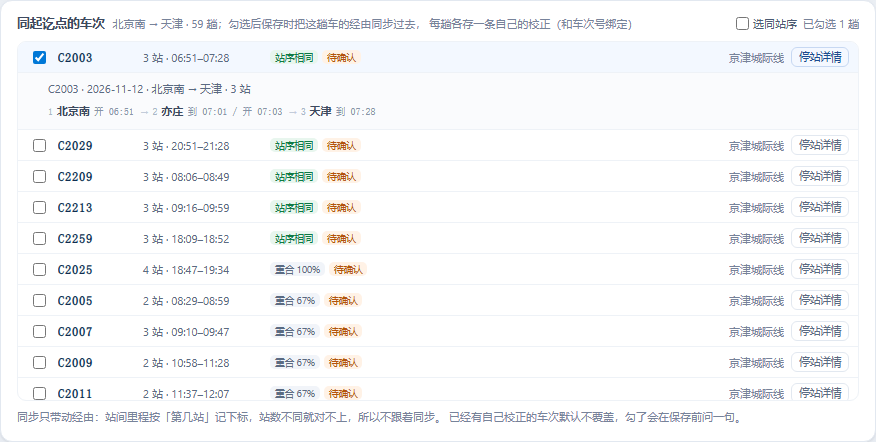
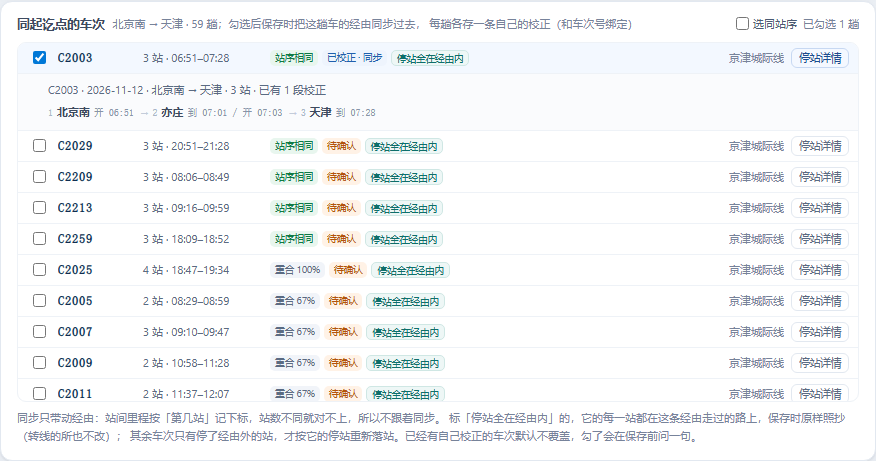
同步经由：停站全在经由里就原样照抄，不再重新落站
- 新增 via_covers_stops()：把每条经由段在那条线的站序（命名线路 → 合并线路所 →
  资料库站序）取 from→to 之间的一截，合起来就是这条经由走过的全部站。对方的每一站
  都在里面就返回 True
- sync_via()：True → mode=direct，把来源的经由原样存过去，区间端点、转线的所
  （春申南所、灭火沟线路所）一个不动，不落站、不重算；False/None 才走
  adapt_via_to_stops() 那条老路（mode=adapt）
- 同起讫点列表每行多一个 viaFits（停站全在经由内），界面挂青标「停站全在经由内」，
  勾之前就知道会照抄还是重新落站；保存提示也分开报「照抄 N 趟 / 重新落站 M 趟」
- 回归：新增 check_rule() 守覆盖判定（线上站 True / 线外站 False / 线名查不到 None）、
  接口断言 mode 与存储结果（direct 时必须和来源逐段一致）、UI 标记数与接口一致
- README / PROJECT-CONTEXT 规则 4 改写；docs/curate-od.png 重新生成
  17 个回归全绿

diff --git a/webapp/static/app.js b/webapp/static/app.js
@@ -4600,6 +4600,10 @@ function odRowHtml(it) {
   } else if (it.viaSource === 'auto') {
     tags.push('<span class="mate-tag pending">待确认</span>');
   }
+  if (it.viaFits) {
+    tags.push('<span class="mate-tag fits" title="它的每一站都在这条经由走过的路上：'
+      + '勾选同步会原样照抄，不重新落站">停站全在经由内</span>');
+  }
   const time = it.startTime ? `${esc(it.startTime)}–${esc(it.endTime || '')}` : '';
   return `<div class="mate-row${on ? ' on' : ''}" data-code="${esc(it.code)}">
     <label class="mate-chk"><input type="checkbox"${on ? ' checked' : ''}></label>
@@ -4627,7 +4631,8 @@ function cuMatesHtml(d) {
     </h4>
     <div class="mate-list" id="ceMates">${items.map(odRowHtml).join('')}</div>
     <div class="ve-note">同步只带动经由：站间里程按「第几站」记下标，站数不同就对不上，所以不跟着同步。
-      已经有自己校正的车次默认不覆盖，勾了会在保存前问一句。</div>
+      标「停站全在经由内」的，它的每一站都在这条经由走过的路上，保存时原样照抄（转线的所也不改）；
+      其余车次只有停了经由外的站，才按它的停站重新落站。已经有自己校正的车次默认不覆盖，勾了会在保存前问一句。</div>
   </div>`;
 }
 
@@ -5992,7 +5997,13 @@ async function cuSave() {
     if (virtCount) parts.push(`${virtCount} 段自动推断没确认，未保存`);
     const synced = (r && r.synced) || [];
     const okc = synced.filter(x => x.ok);
-    if (okc.length) parts.push(`已同步到 ${okc.length} 趟（${okc.map(x => x.code).join('、')}）`);
+    if (okc.length) {
+      const dir = okc.filter(x => x.mode === 'direct').length;
+      const ad = okc.length - dir;
+      parts.push(`已同步到 ${okc.length} 趟（${okc.map(x => x.code).join('、')}）`
+        + (dir ? `，${dir} 趟停站全在经由内、原样照抄` : '')
+        + (ad ? `，${ad} 趟停了经由外的站、按它的停站重新落站` : ''));
+    }
     const bad = synced.filter(x => !x.ok);
     cuMsg(bad.length ? 'bad' : 'ok', '已保存 · ' + parts.join('；')
       + (bad.length ? `；这几趟没同步：${bad.map(x => `${x.code}（${x.reason}）`).join('、')}` : ''));

diff --git a/webapp/static/style.css b/webapp/static/style.css
@@ -637,6 +637,7 @@ button.vseg:not(.picked):hover::after{opacity:1}
 .mate-tag.same{background:#e8f6ee;color:#0f7a45}
 .mate-tag.manual{background:#eef4fd;color:#1f5fae}
 .mate-tag.pending{background:#fff2e6;color:#b45309}
+.mate-tag.fits{background:#eef7f6;color:#0d6f6a;border:1px solid #cfe7e4}
 .mate-via{font-size:11px;color:var(--muted);white-space:nowrap;overflow:hidden;text-overflow:ellipsis;
   text-align:right}
 .mate-more{border:1px solid var(--line);background:#fff;color:#5a6b83;border-radius:6px;

diff --git a/scripts/test_curate_sync.py b/scripts/test_curate_sync.py
@@ -7,7 +7,8 @@
   2. 校正和车次号绑定，并记下「依据哪一天的站表」；站表变了要能提示
   3. 「同类沿用」已经取消：同起讫点的车次不会再自动套用别人的经由
   4. 只能人工勾选同步；同步过去的每趟各存一条自己的校正（source=sync）
-  5. 同步时区间按对方的停站重新落站（对方少停的站并进相邻段）
+  5. 对方的每一站都在这条经由走过的路上 → 原样照抄（mode=direct，不重新落站）；
+     只有它停了经由之外的站，才按它的停站重新落站（mode=adapt）
 
 自带清理：测试用到的校正跑完全部撤销。
 用法：python scripts/test_curate_sync.py [来源车次 目标车次]
@@ -87,6 +88,10 @@ def check_api(src, dst):
     assert dst != src, "来源和目标是同一趟"
     print(f"  同步目标：{dst}")
 
+    # 0) 同起讫点列表里先标出来「哪几趟停站全在经由里」（勾选后原样照抄）
+    print("  列表标记 viaFits：" + "、".join(
+        f"{m['code']}={m.get('viaFits')}" for m in mates[:6]))
+
     # 1) 自动结果还没入库：payload 里是 auto、viaConfirmed=False
     p = get(f"/api/route?code={src}&date={d['date']}")
     assert p["viaSource"] == "auto" and p["viaConfirmed"] is False, "自动结果不该算已校正"
@@ -119,7 +124,19 @@ def check_api(src, dst):
     segs = [(s["line"], s["from"], s["to"]) for s in pm["viaSegs"]]
     print(f"  {dst} 入库：source={ov['source']} 依据 {ov.get('basedDate')} · {segs}")
 
-    # 4) 区间按对方的停站落站：首末段必须正好是它的首末站
+    # 4) 它的每一站都在这条经由走过的路上 → 原样照抄（不重新落站）；否则才重新落站
+    import railcore as _rc                              # noqa: E402  （已在 find_pair 里塞好路径）
+    tgt_stops = _rc.route_stops_brief(dst).get("stops") or []
+    expect = _rc.via_covers_stops(r.get("via") or [], tgt_stops)
+    mode = synced[0].get("mode")
+    print(f"  覆盖判定 {expect} → 落站方式 {mode}")
+    if expect:
+        assert mode == "direct", f"停站全在经由里，却重新落站了：{mode}"
+        src_via = [(x["line"], x["from"], x["to"]) for x in r["via"]]
+        assert segs == src_via, f"原样照抄的经由被改了：{segs} ≠ {src_via}"
+    else:
+        assert mode == "adapt", f"有站不在经由里，却原样照抄了：{mode}"
+    # 首末段无论如何都要正好是它的首末站
     assert segs[0][1] == m["from"] and segs[-1][2] == m["to"], "同步后的区间没覆盖对方全程"
     assert len(m["stops"]) == len(pm["stops"]), "停站数被改了"
 
@@ -183,7 +200,6 @@ def check_ui(src, dst):
         print(f"  停站详情 {nst} 行")
         assert nst >= 2, "停站详情没内容"
         pg.screenshot(path=os.path.join(SHOT, "cu-sync.png"))
-        pg.query_selector("#ceMatesCard").screenshot(path=os.path.join(DOC, "curate-od.png"))
 
         # 确认自动结果并入库（此时已勾选同伴，会一起同步）
         accept = pg.query_selector("#ceAccept")
@@ -195,6 +211,21 @@ def check_ui(src, dst):
         msg = pg.inner_text("#ceMsg")
         print("  保存提示：" + msg.replace("\n", " ")[:120])
         assert "已同步到" in msg, "保存提示里没说同步了几趟"
+        assert "原样照抄" in msg or "重新落站" in msg, "保存提示没说这次是照抄还是重新落站"
+
+        # 保存后来源车有了经由：列表里该标出哪几趟「停站全在经由内」
+        pg.wait_for_timeout(800)
+        fits = pg.eval_on_selector_all("#ceMates .mate-row .mate-tag.fits", "els => els.length")
+        want = sum(1 for x in (get("/api/curate/detail?code=" + src)["odMates"]["items"])
+                   if x.get("viaFits"))
+        print(f"  标「停站全在经由内」的行 {fits} 个（接口 {want} 个）")
+        assert fits == want, "「停站全在经由内」标记和接口对不上"
+
+        # 文档截图：此时列表已标出「停站全在经由内」，再展开一趟的停站详情
+        pg.query_selector('#ceMates .mate-row[data-code="%s"] input[type=checkbox]' % dst).check()
+        pg.query_selector('#ceMates .mate-row[data-code="%s"] .mate-more' % dst).click()
+        pg.wait_for_timeout(900)
+        pg.query_selector("#ceMatesCard").screenshot(path=os.path.join(DOC, "curate-od.png"))
 
         # 同步入库的算「已校正」：统计条是「已校正 / 其中同步」，行上标「已校正 · 同步」
         pg.click('#cuFilters .cu-filter[data-f="synced"]')
@@ -249,6 +280,25 @@ def check_stale():
         clear(code)
 
 
+def check_rule():
+    """「停站全在经由里就原样照抄」这条判定本身（纯函数，不碰库）"""
+    print("== 覆盖判定")
+    sys.path.insert(0, os.path.join(os.path.dirname(os.path.dirname(
+        os.path.abspath(__file__))), "webapp"))
+    import railcore                                    # noqa: E402
+
+    segs = [{"line": "京沪线", "from": "北京", "to": "上海"}]
+    on = [{"name": "北京"}, {"name": "天津西"}, {"name": "徐州"}, {"name": "上海"}]
+    off = [{"name": "北京"}, {"name": "大连"}, {"name": "上海"}]
+    unknown = [{"line": "查不到的线", "from": "甲", "to": "乙"}]
+    print("  京沪线上走天津西/徐州 →", railcore.via_covers_stops(segs, on),
+          "｜停了线外的大连 →", railcore.via_covers_stops(segs, off),
+          "｜线名查不到 →", railcore.via_covers_stops(unknown, on))
+    assert railcore.via_covers_stops(segs, on) is True, "全在线上的停站没认出来"
+    assert railcore.via_covers_stops(segs, off) is False, "线外的停站没被拦下"
+    assert railcore.via_covers_stops(unknown, on) is None, "线名查不到时应返回 None（退回重新落站）"
+
+
 def main():
     if SRC:
         src, dst = SRC, DST
@@ -258,6 +308,7 @@ def main():
         src, dst, f, t = picked
         print(f"样本：{src} / {dst}（{f} → {t}）")
     try:
+        check_rule()
         dst = check_api(src, dst)
         check_stale()
         # 前面 API 已经写过校正，跑 UI 前先清掉，让页面回到「自动待确认」状态

diff --git a/webapp/railcore.py b/webapp/railcore.py
@@ -665,6 +665,64 @@ def adapt_via_to_stops(segs: List[dict], stops: List[dict]) -> List[dict]:
     return out
 
 
+def _line_span_names(line: str, cache: Dict[str, Optional[List[str]]]) -> Optional[List[str]]:
+    """某条线的完整站序（含线路所这类节点）。线路库、资料库都查不到 → None"""
+    key = cnrail._key(line or "")
+    if key in cache:
+        return cache[key]
+    names: Optional[List[str]] = None
+    try:
+        names = cnrail.line_station_names(line)
+        if names:
+            names = merge_catalog_nodes(line, names)
+        else:
+            names = catalog_stop_names(line) or None
+    except Exception:                                # noqa: BLE001
+        names = None
+    cache[key] = names
+    return names
+
+
+def _span_slice(names: List[str], a: str, b: str) -> Optional[List[str]]:
+    """站序里 a→b 之间（含两端）的站名；有一端对不上就是 None"""
+    keys = [cnrail._key(n) for n in names]
+    ka, kb = cnrail._key(a or ""), cnrail._key(b or "")
+    if ka not in keys or kb not in keys:
+        return None
+    i, j = keys.index(ka), keys.index(kb)
+    if i > j:
+        i, j = j, i
+    return names[i:j + 1]
+
+
+def via_covers_stops(segs: List[dict], stops: List[dict],
+                     cache: Optional[Dict[str, Optional[List[str]]]] = None) -> Optional[bool]:
+    """
+    这条经由是不是已经把 stops 里的每一站都走过了？
+
+    True  → 原样照抄就是对的：转线的所、区间端点都不用改，不必重新落站；
+    False → 目标车停了经由之外的站，得按它的停站重新落站；
+    None  → 线路站序查不到，判断不了，走重新落站那条路（老办法）。
+
+    `cache` 是「线路名 → 站序」的记忆表：一次列几十趟同起讫点车次时传一个进来，
+    别每趟都把线路站序重新读一遍。
+    """
+    n = len(stops or [])
+    if n < 2 or not segs:
+        return None
+    cache = {} if cache is None else cache
+    seen: set = set()
+    for s in segs:
+        names = _line_span_names(str(s.get("line") or ""), cache)
+        if not names:
+            return None
+        part = _span_slice(names, s.get("from") or "", s.get("to") or "")
+        if part is None:
+            return None
+        seen.update(cnrail._key(x) for x in part)
+    return all(cnrail._key(s.get("name") or "") in seen for s in stops)
+
+
 # ---------------------------------------------------------------------------
 # 同起讫点车次：列停站明细、按勾选同步已校正的经由
 # ---------------------------------------------------------------------------
@@ -739,8 +797,9 @@ def sync_via(codes, segs, src_code: str, note: str = "", date: Optional[str] = N
     把一趟车的已校正经由同步到勾选的同起讫点车次。
 
     逐趟各存一条 `train_override`（和车次号绑定，不是抄进一份「同类」表）：
-    区间按对方的经停站重新落站，中间没停的站会被并进相邻段。返回每趟的结果，
-    同步不过去的（没数据 / 已有自己的校正 / 站序对不上）如实说明，不硬写。
+    对方的每一站都在这条经由走过的路上 → 原样照抄，区间端点、转线的所一个不动；
+    只有它停了经由之外的站，才按它的停站重新落站（`mode=adapt`）。
+    返回每趟的结果，同步不过去的（没数据 / 已有自己的校正 / 站序对不上）如实说明，不硬写。
     """
     src = (src_code or "").strip().upper()
     clean = _clean_via(segs)
@@ -789,15 +848,25 @@ def sync_via(codes, segs, src_code: str, note: str = "", date: Optional[str] = N
         if (prev.get("via") or []) and not overwrite:
             out.append({"code": c, "ok": False, "reason": "它已有自己的校正，未覆盖"})
             continue
-        adapted = adapt_via_to_stops(routed, stops)
-        if not adapted:
-            out.append({"code": c, "ok": False, "reason": "经由和它的停站对不上，未同步"})
-            continue
         text = f"{note}（同起讫点同步自 {src}）" if note else f"同起讫点同步自 {src}"
+        # 它的每一站都在这条经由走过的路上 → 直接照抄，不用重新落站、不用重算
+        direct = via_covers_stops(clean, stops)
+        if direct:
+            via = [dict(s) for s in clean]
+            mode = "direct"
+        else:
+            via = adapt_via_to_stops(routed, stops)
+            mode = "adapt"
+            if not via:
+                out.append({"code": c, "ok": False,
+                            "reason": ("经由和它的停站对不上" if direct is False
+                                       else "线路站序查不到，没法按它的停站落站") + "，未同步"})
+                continue
         # 站间里程按「第 i 站」记下标，站数不同就对不上，所以同步只带总里程不带段里程
-        saved = save_override(c, adapted, prev.get("totalKm"), text, {}, brief.get("date"),
+        saved = save_override(c, via, prev.get("totalKm"), text, {}, brief.get("date"),
                               source="sync", src_code=src)
-        out.append({"code": c, "ok": True, "segs": len(saved.get("via") or []),
+        out.append({"code": c, "ok": True, "mode": mode,
+                    "segs": len(saved.get("via") or []),
                     "date": brief.get("date"), "srcCode": src,
                     "stops": len(stops)})
     return out

diff --git a/webapp/curate.py b/webapp/curate.py
@@ -222,16 +222,21 @@ def gap_candidates(stops: List[str], gaps: List[dict], segs: List[dict]) -> List
 
 
 
-def od_mates(code: str, limit: int = 60) -> dict:
+def od_mates(code: str, limit: int = 60, via: Optional[List[dict]] = None) -> dict:
     """
     同起讫点的**其它车次**，连同停站概况一起列出来，供人工勾选后同步经由。
 
     以前是「同起讫站 + 同车种自动沿用」，看着省事，但同 OD 的车走法未必一样，
     悄悄套过去反而把数据改坏。现在只列出候选，勾哪趟由人定，同步下去的也各存
     一条自己的校正（和车次号绑定）。
+
+    `via` 给来源车次当前的经由：算一下对方的每一站是不是都在这条经由走过的路上
+    （`viaFits=True` 的那几趟，同步时原样照抄就行，不必重新落站）。
     """
     code = (code or "").strip().upper()
     out: Dict[str, object] = {"from": None, "to": None, "items": [], "total": 0}
+    segs = [s for s in (via or []) if isinstance(s, dict) and s.get("line")]
+    span_cache: Dict[str, Optional[List[str]]] = {}
     if not code:
         return out
     try:
@@ -263,6 +268,8 @@ def od_mates(code: str, limit: int = 60) -> dict:
         ov = ov_map.get(r["code"]) or {}
         info = labels.get(r["code"]) or {}
         shared = len(mine_set & set(names)) if mine_set else 0
+        # 它的每一站都在这条经由走过的路上 → 同步时原样照抄，不用重新落站
+        fits = railcore.via_covers_stops(segs, brief.get("stops") or [], span_cache) if segs else None
         items.append({
             "code": r["code"],
             "codeLabel": info.get("codeLabel") or r["code"],
@@ -282,6 +289,7 @@ def od_mates(code: str, limit: int = 60) -> dict:
             "overlap": round(shared / len(mine_set) * 100) if mine_set else 0,
             "sameStops": bool(names) and names == mine_names,
             "stopsMissing": not names,
+            "viaFits": bool(fits),                  # 停站全在来源经由里：同步即原样照抄
         })
     # 站序一模一样的排最前（套过去最准），其次按重合站数
     items.sort(key=lambda x: (not x["sameStops"], -x["overlap"], x["code"]))
@@ -626,7 +634,7 @@ def detail(code: str) -> dict:
 
     # ---- 同起讫点的其它车次（人工勾选后同步经由，不再自动沿用）----
     try:
-        out["odMates"] = od_mates(code)
+        out["odMates"] = od_mates(code, via=(out.get("override") or {}).get("via") or [])
     except Exception:                                # noqa: BLE001
         out["odMates"] = {"from": out.get("from"), "to": out.get("to"), "items": [], "total": 0}
 

diff --git a/docs/PROJECT-CONTEXT.md b/docs/PROJECT-CONTEXT.md
@@ -85,8 +85,14 @@ railcn/
    现在的替代是：列出**同起讫点车次 + 每趟停站详情**，人工勾选，保存时逐趟同步。
 3. **同步入库也算「已校正」。** 统计条是「已校正 N / 其中同步 M」，M 是 N 的子集，不相加；
    `filter=manual` 含同步的，`filter=synced` 只是单独回看。行标统一写「已校正 · 同步」。
-4. **同步不是硬抄，要按对方的停站重新落站。** `sync_via()` 先把区间端点折成「第 i 站 / (n-1)」的比例，
-   再 `adapt_via_to_stops()` 逐趟落站：端点对站名，对不上按站序比例就近落；中间没停的站并进相邻段。
+4. **同步先看「停站是否全在经由里」，全在就原样照抄。** `via_covers_stops()` 拿每条经由段在那条线的
+   站序（`cnrail.line_station_names` → `merge_catalog_nodes`，查不到再 `catalog_stop_names`）取
+   `from→to` 之间的一截，合起来就是这条经由走过的全部站：
+   - 对方的每一站都在里面 → `mode=direct`，区间端点、转线的所（春申南所/灭火沟线路所）**一个不动**，
+     不重新落站、不重算。列表里挂青标「停站全在经由内」（`odMates.items[].viaFits`）。
+   - 停了经由之外的站 → `mode=adapt`，`adapt_via_to_stops()` 按「第 i 站 / (n-1)」比例落站，
+     中间没停的站并进相邻段。
+   - 线路站序查不到 → 返回 `None`，退回 `adapt`（保守）。
    只同步**覆盖全程**的经由；对方已有校正默认跳过，`syncOverwrite=1` 才覆盖。
 5. **站表变了要提示。** 用 `based_date` 那天的站序和今天比，不等就在编辑器打「站表已变」，
    `overrideStale` 给出 `missing[]`（少了哪些站）/ `added[]`（多了哪些站）。
@@ -123,7 +129,7 @@ done
 
 | 脚本 | 守什么 |
 |---|---|
-| `test_curate_sync` | 自动结果要确认才入库、同步落站、站表变化、UI 勾选与同步标记、跑完自动撤销 |
+| `test_curate_sync` | 自动结果要确认才入库、同步「原样照抄 / 重新落站」两条路、站表变化、UI 勾选与同步标记、跑完自动撤销 |
 | `test_curate_refresh` | 线路库改动后重算这趟车的自动经由 |
 | `test_net_form` | 车站/线路查询输入框宽度、联想框宽度与行高、Esc/点空白收起、空列表不占高度 |
 | `test_via_nodes` | 经由选站能选到线路所（沪春线春申南所、宝成线灭火沟线路所）、节点插入位置、只在资料库的线路也出站序 |
